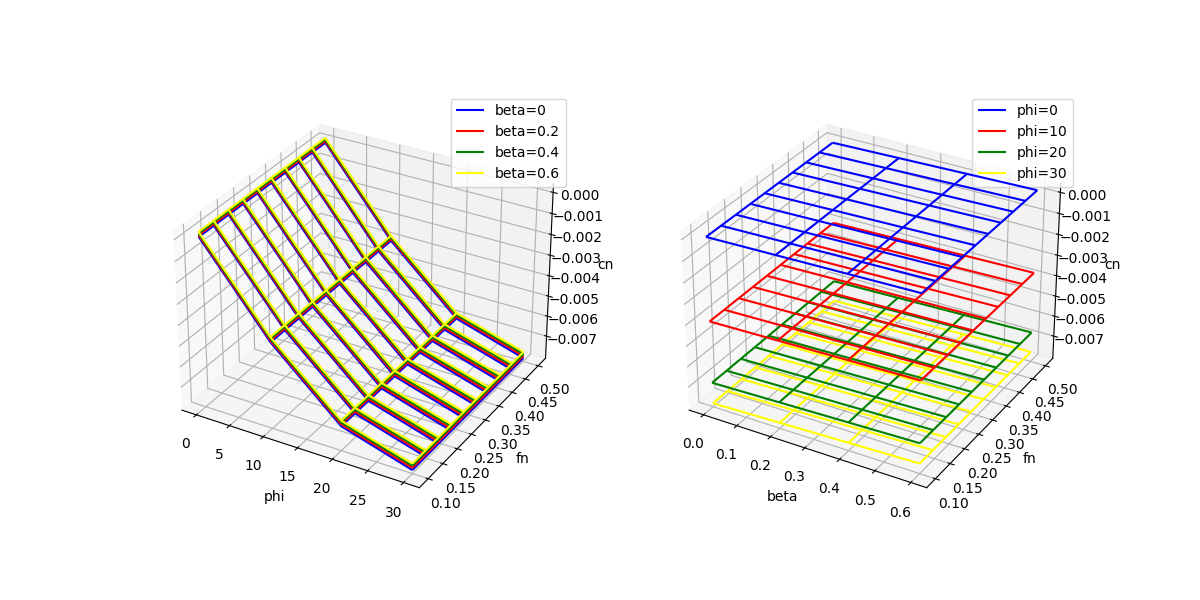
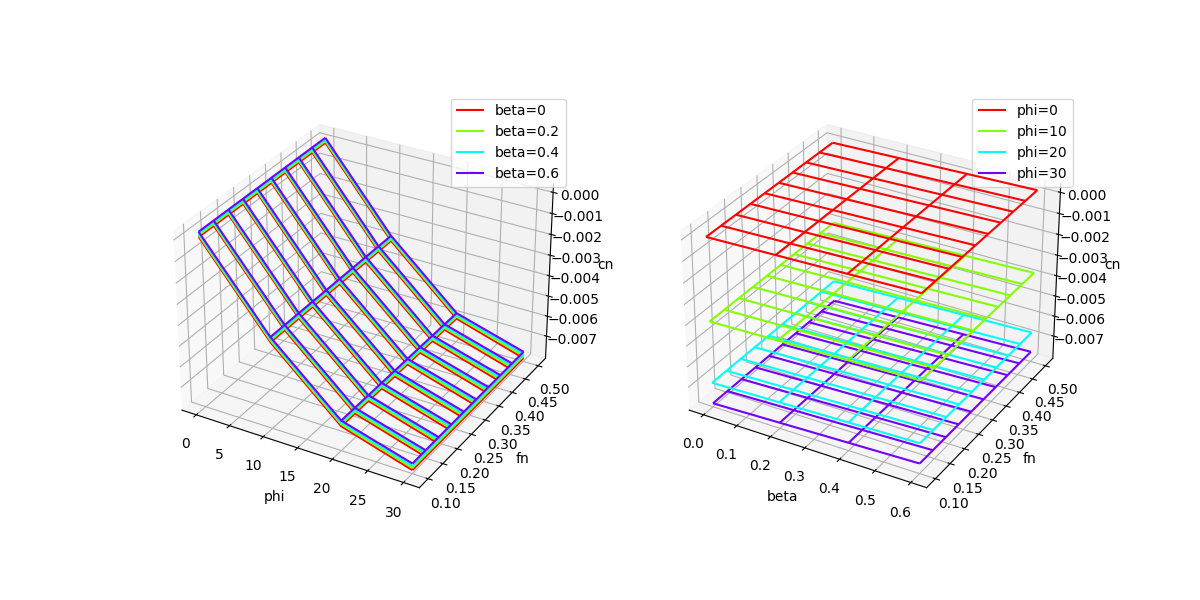
changed cmap in test_data.py

Changed region(s): [[0.5858, 0.24, 0.8633, 0.78], [0.1542, 0.21, 0.4625, 0.78]]

diff --git a/test_data.py b/test_data.py
@@ -6,39 +6,15 @@ from balance import Balance
 from main import Constants
 from scipy.interpolate import RegularGridInterpolator
 
-class Constants:
-    def __init__(self):
-        self.rhoa = 1.2
-        self.rhow = 1025.0
-        self.g    = 9.807
-
-        a = 1 # 2.515
-        self.lwl       = 8.55 * a
-        self.draft     = 1.94 * a
-        self.sail_area = 56.4 * a**2
-        self.zce       = -6.4 * a
-        self.disp      = 3775.0 * a**3
-        self.gm        = 1.31 * a
-
-        self.wsa = self.lwl * self.draft
-        
-        print("LWL:       {0:.2f}".format(self.lwl))
-        print("Draft:     {0:.2f}".format(self.draft))
-        print("Disp:      {0:.2f}".format(self.disp))
-        print("WSA:       {0:.2f}".format(self.wsa))
-        print("Sail Area: {0:.2f}".format(self.sail_area))
-        print("CEz:       {0:.2f}".format(self.zce))
-        print("GM:        {0:.2f}".format(self.gm))
-
 def plot_3d(n,zlabel):
     hull = np.load("hull.npy")
     gphi, gbeta, gfn = np.meshgrid(phi_range, beta_range, fn_range, indexing='ij')
-    col = ["blue","red","green","yellow"]
+    col = plt.get_cmap("hsv")
     fig = plt.figure(figsize=(12,6))
 
     ax1 = fig.add_subplot(121, projection='3d')
     for i in range(len(beta_range)):
-        ax1.plot_wireframe( gphi[:,i,:], gfn[:,i,:], hull[:,i,:,n], color=col[i], label="beta={0:g}".format(beta_range[i]))
+        ax1.plot_wireframe( gphi[:,i,:], gfn[:,i,:], hull[:,i,:,n], color=col(i/len(beta_range)), label="beta={0:g}".format(beta_range[i]))
     ax1.legend()
     ax1.set_xlabel("phi")
     ax1.set_ylabel("fn")
@@ -46,7 +22,7 @@ def plot_3d(n,zlabel):
 
     ax2 = fig.add_subplot(122, projection='3d')
     for i in range(len(phi_range)):
-        ax2.plot_wireframe( gbeta[i,:,:], gfn[i,:,:], hull[i,:,:,n], color=col[i], label="phi={0:g}".format(phi_range[i]))
+        ax2.plot_wireframe( gbeta[i,:,:], gfn[i,:,:], hull[i,:,:,n], color=col(i/len(phi_range)), label="phi={0:g}".format(phi_range[i]))
     ax2.legend()
     ax2.set_xlabel("beta")
     ax2.set_ylabel("fn")
